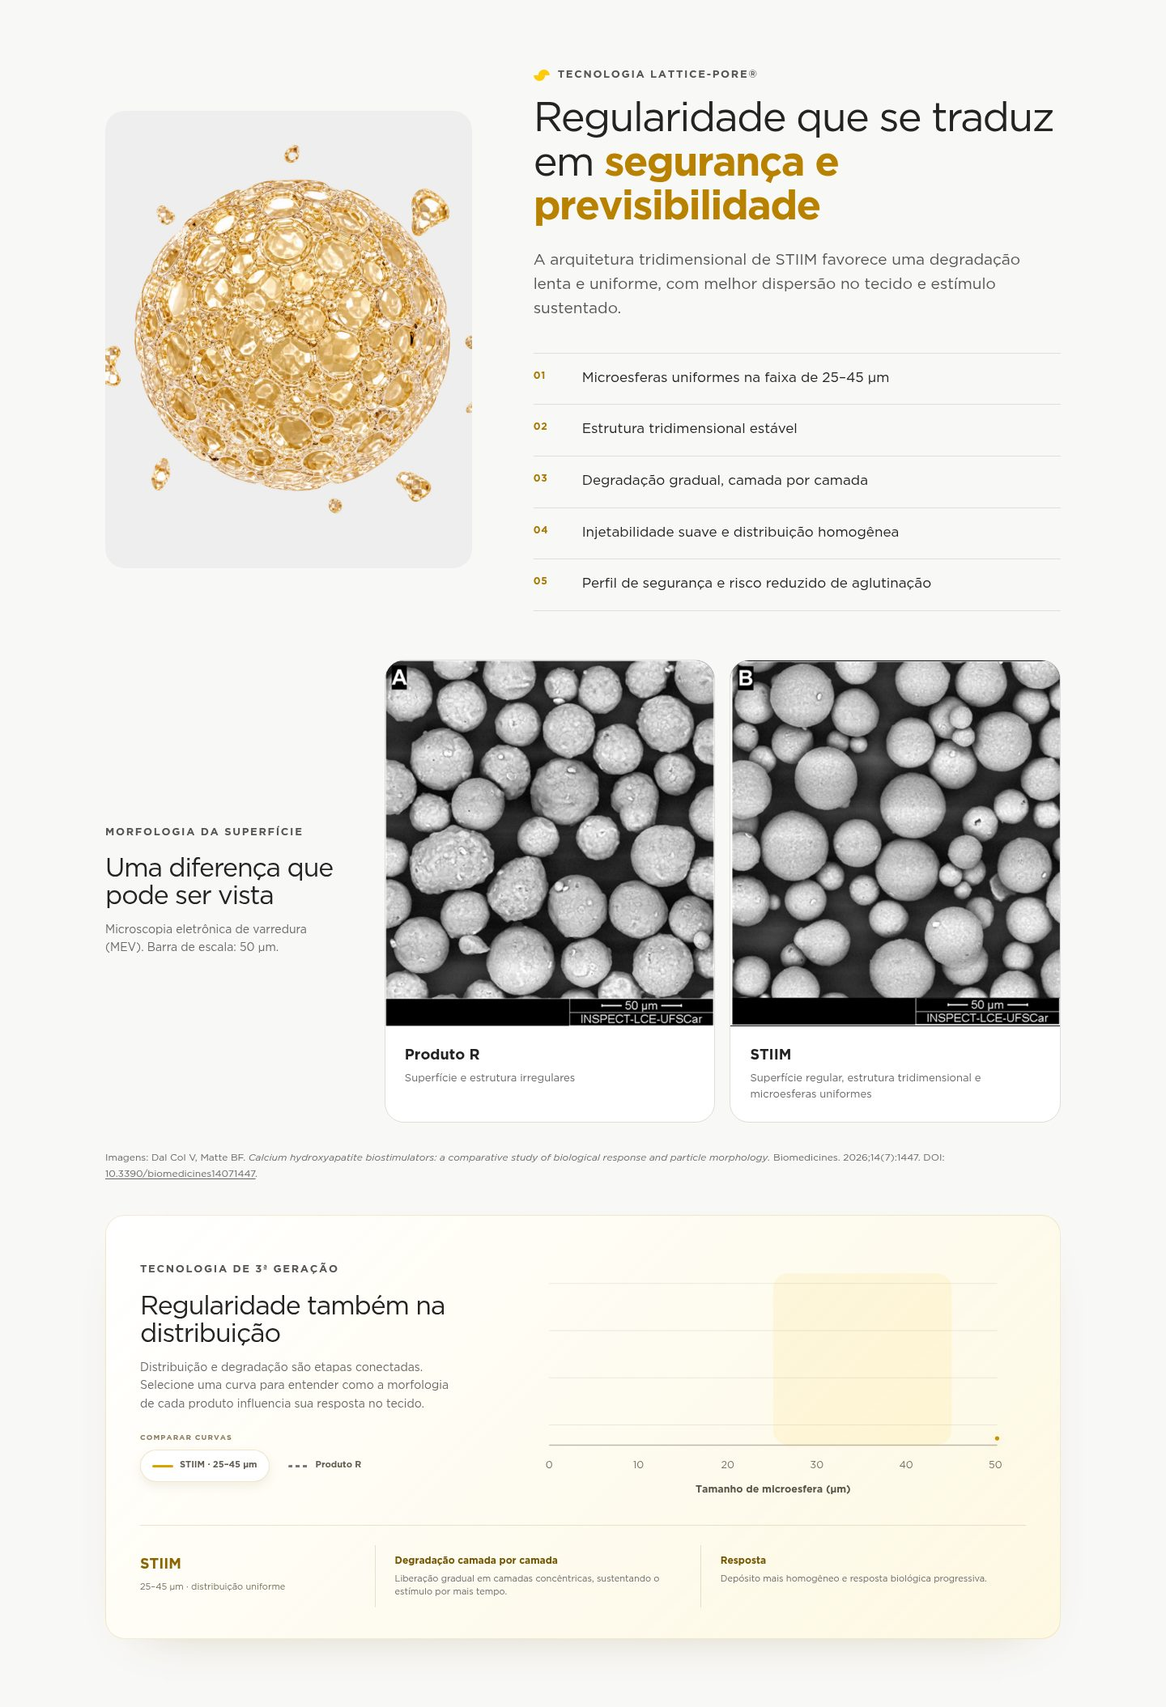
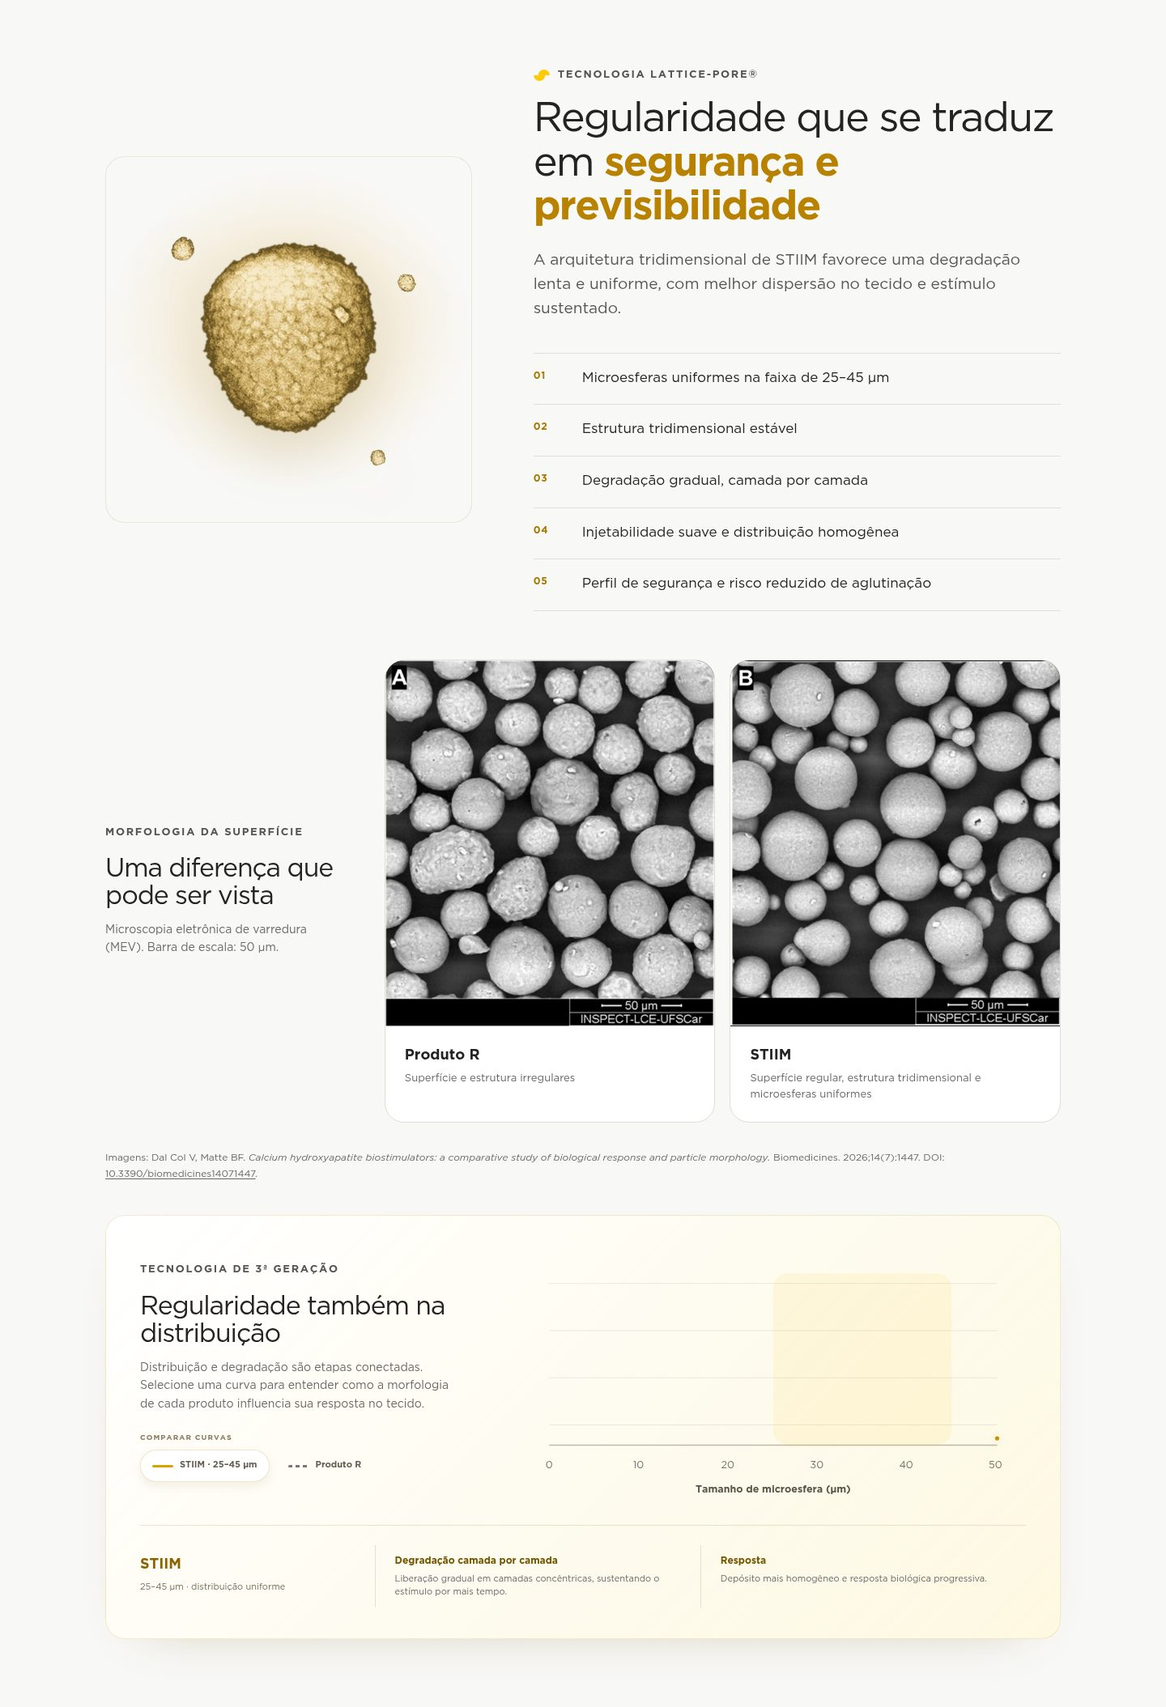
86ah19vv5: molecula Lattice-Pore virou a particula real do painel D, dourada e fosca
A molecula do PDF nao era um asset separado: e a particula real do painel D da
propria g004, recortada. Com isso o bloqueio caiu e a peca foi construida em cima
da micrografia, sem gerar nem redesenhar nada.

De onde saiu
- Particula principal: g004, painel D, esfera do canto superior esquerdo
  (silhueta 528x573), a mais inteira do painel.
- 3 microesferas satelite: painel B, da mesma figura. De proposito NAO usei lasca
  dos paineis A e C: aqueles dois sao o produto comparador, e B/D sao o mesmo
  material da particula principal. Misturar seria afirmar o que o estudo nao diz.

Recorte
Limiar sobre o painel (a tarja da escala e detectada e descartada antes),
componentes conexos, e escolha do componente que nao toca borda nenhuma e e o
mais circular perto do canto superior esquerdo. Mascara com fechamento/abertura
em disco, preenchimento de buracos, mediana e desfoque de 1,6px so na borda do
alfa. Conferido: alfa zero nas quatro bordas do recorte, entao a esfera nao foi
cortada. Fundo transparente, sem halo do fundo escuro do MEV.

Tratamento (sobre a foto, sem redesenhar)
Luminancia real mapeada por rampa champagne, do bronze #634F21 ao creme #F7EAC8,
coerente com --gold-field/--cream/--gold-ink. Tres pontos garantem o "sem aspecto
de vidro": a rampa termina antes do branco puro (sem branco nao ha reflexo
especular), o piso nao vai a preto (a particula continua lendo como volume) e nao
ha transparencia nenhuma. Contraste da textura preservado com ganho 1,12 em torno
[…]

Changed region(s): [[0.0938, 0.0925, 0.4062, 0.3082]]

diff --git a/styles.css b/styles.css
@@ -163,6 +163,12 @@ p{margin-bottom:20px}
 .technology-grid{display:grid;grid-template-columns:.82fr 1.18fr;gap:76px;align-items:center}
 .identity-card{margin:0;overflow:hidden;border-radius:var(--radius);background:#eee}
 .identity-card img{width:100%;aspect-ratio:4/5;object-fit:cover;object-position:center}
+/* 86ah19vv5: card da particula dourada. A imagem e recortada com fundo transparente, entao
+   o card deixa de ser uma caixa cinza e vira um campo champagne suave, no mesmo tom do
+   amarelo novo da secao de evidencias. contain em vez de cover para nao cortar as
+   microesferas satelites, e padding para a particula nao encostar na borda. */
+.identity-card--particula{display:grid;place-items:center;padding:3%;border:1px solid rgba(154,112,0,.13);background:radial-gradient(66% 58% at 50% 47%,#fbf4e4 0%,#f6efdf 42%,var(--surface) 76%)}
+.identity-card--particula img{aspect-ratio:1/1;object-fit:contain;filter:drop-shadow(0 26px 34px rgba(122,95,20,.16))}
 .technology-copy>p:not(.eyebrow){max-width:650px;color:#555;font-size:19px}
 .feature-list{margin:38px 0 0;padding:0;list-style:none;border-top:1px solid var(--line)}
 .feature-list li{display:grid;grid-template-columns:42px 1fr;gap:18px;padding:19px 0;border-bottom:1px solid var(--line);font-size:17px;line-height:1.45}
@@ -238,15 +244,16 @@ p{margin-bottom:20px}
 .mechanism-expansion{position:relative;display:block;margin-top:44px}
 .mechanism-visual{position:relative;grid-area:visual;min-height:500px;overflow:visible;isolation:isolate}
 .mechanism-field{position:absolute;inset:0;overflow:hidden}
-.mechanism-field::before{content:"";position:absolute;top:50%;left:40%;width:430px;height:430px;border-radius:50%;background:radial-gradient(circle at 67% 50%,rgba(255,202,8,.72),rgba(255,202,8,.34) 43%,rgba(255,227,111,.12) 62%,transparent 75%);filter:blur(15px);transform:translate(-50%,-50%)}
+.mechanism-field::before{content:"";position:absolute;top:50%;left:40%;width:430px;height:430px;border-radius:50%;background:radial-gradient(circle at 67% 50%,rgba(255,202,8,.46),rgba(255,202,8,.22) 43%,rgba(255,227,111,.08) 62%,transparent 75%);filter:blur(15px);transform:translate(-50%,-50%)}
 /* 86ah19vv5: "centralizar, esta muito grudado com a borda" - o painel e o texto saem da
    borda esquerda do bloco. */
 .mechanism-field::after{content:"";position:absolute;top:50%;left:3%;z-index:3;width:38%;height:450px;border:1px solid rgba(255,255,255,.7);border-radius:var(--radius);background:rgba(255,255,255,.5);box-shadow:inset 1px 1px rgba(255,255,255,.9),0 18px 48px rgba(103,77,0,.045);backdrop-filter:blur(18px) saturate(112%);-webkit-backdrop-filter:blur(18px) saturate(112%);transform:translateY(-50%);pointer-events:none}
 .mechanism-field i{position:absolute;top:50%;left:40%;border-radius:50%;transform:translate(-50%,-50%)}
 .mechanism-field i:nth-child(1){width:510px;height:510px;border:1px dashed rgba(168,120,0,.42)}
 .mechanism-field i:nth-child(2){width:450px;height:450px;background:repeating-conic-gradient(from -90deg,rgba(168,120,0,.52) 0 1.35deg,transparent 1.35deg 3.25deg);clip-path:inset(0 0 0 50%);-webkit-mask:radial-gradient(circle,transparent 0 58%,#000 58.5% 71%,transparent 71.5%);mask:radial-gradient(circle,transparent 0 58%,#000 58.5% 71%,transparent 71.5%)}
-.mechanism-field i:nth-child(3){width:390px;height:390px;background:radial-gradient(circle at 62% 50%,rgba(255,202,8,.45),rgba(255,202,8,.12) 58%,transparent 72%);clip-path:inset(0 0 0 48%);filter:blur(9px)}
-.mechanism-molecule{position:absolute;top:50%;left:40%;z-index:2;width:282px;height:282px;object-fit:contain;filter:drop-shadow(0 22px 34px rgba(115,85,0,.18)) brightness(1.01);transform:translate(-50%,-50%);animation:mechanism-molecule-float 6s ease-in-out infinite alternate}
+.mechanism-field i:nth-child(3){width:390px;height:390px;background:radial-gradient(circle at 62% 50%,rgba(255,202,8,.3),rgba(255,202,8,.08) 58%,transparent 72%);clip-path:inset(0 0 0 48%);filter:blur(9px)}
+/* 86ah19vv5: a particula dourada ja tem volume proprio; o brightness artificial sai. */
+.mechanism-molecule{position:absolute;top:50%;left:51%;z-index:4;width:286px;height:286px;object-fit:contain;filter:drop-shadow(0 22px 32px rgba(115,85,0,.16));transform:translate(-50%,-50%);animation:mechanism-molecule-float 6s ease-in-out infinite alternate}
 .mechanism-field>span{display:none}
 /* 86ah19vv5: "centralizar, esta muito grudado com a borda" - a coluna de cards sai de
    right:12% para uma margem folgada e ganha respiro vertical entre os tres. */
@@ -565,6 +572,8 @@ p{margin-bottom:20px}
   .particle-distribution{grid-template-columns:1fr;gap:20px}
   .mechanism-visual{min-height:460px}
   .mechanism-glass-tabs{right:3%;width:min(40%,300px)}
+  /* 86ah19vv5: com a coluna de cards mais a esquerda, a particula recua para nao ficar por baixo */
+  .mechanism-molecule{left:42%;width:236px;height:236px}
   .mechanism-glass-stage{min-height:105px;padding:22px 58px 18px 18px}
   .area-list .area-copy{grid-template-columns:1fr;gap:2px}
   .application-insights{grid-template-columns:1fr}
@@ -635,6 +644,7 @@ p{margin-bottom:20px}
   .mechanism-expansion{display:grid;grid-template-columns:1fr;grid-template-areas:"visual" "details";gap:30px;margin-top:32px}
   .mechanism-visual{min-height:430px}
   .mechanism-glass-tabs{right:22px;width:min(62%,330px)}
+  .mechanism-molecule{left:26%;width:208px;height:208px}
   .mechanism-details{position:relative;top:auto;left:auto;width:100%;min-height:320px;align-items:flex-start;transform:none}
   .mechanism-details h3{font-size:42px}
   .mechanism-gene{gap:8px}
@@ -741,7 +751,7 @@ p{margin-bottom:20px}
   .mechanism-field i:nth-child(1){width:220px;height:220px}
   .mechanism-field i:nth-child(2){width:186px;height:186px;clip-path:none}
   .mechanism-field i:nth-child(3){width:154px;height:154px;clip-path:none}
-  .mechanism-molecule{left:50%;width:159px;height:159px}
+  .mechanism-molecule{left:50%;width:186px;height:186px}
   .mechanism-field>span{display:none}
   .mechanism-glass-tabs{position:relative;top:auto;right:auto;bottom:auto;left:auto;width:100%;gap:8px;transform:none}
   .mechanism-glass-tabs::before{inset:-10px;border-radius:var(--radius)}

diff --git a/index.html b/index.html
@@ -12,7 +12,7 @@
 
   <link rel="preload" href="assets/fonts/GothamBook.woff2" as="font" type="font/woff2" crossorigin />
   <link rel="preload" href="assets/fonts/GOTHAM-BOLD.woff2" as="font" type="font/woff2" crossorigin />
-  <link rel="stylesheet" href="styles.css?v=20260909-62" />
+  <link rel="stylesheet" href="styles.css?v=20260909-63" />
 
   <script>window.__TRK__={brand:'ilikia',pixelId:'666277432116339',ga4Id:'',collect:'https://track-ilikia.koko.ag/collect'};</script>
   <noscript><img height="1" width="1" class="tracking-pixel" src="https://www.facebook.com/tr?id=666277432116339&amp;ev=PageView&amp;noscript=1" alt="" /></noscript>
@@ -153,8 +153,18 @@
 
   <section class="section technology" id="tecnologia">
     <div class="container technology-grid">
-      <figure class="identity-card reveal">
-        <img src="assets/img/stiim-particula-ilustracao-v2.webp" alt="Ilustração tridimensional da microesfera de STIIM com a estrutura Lattice-Pore" width="1254" height="1254" loading="lazy" />
+      <!-- 86ah19vv5: a esfera de vidro sai e entra a PARTICULA REAL tratada. A imagem vem
+           da micrografia do proprio projeto: painel D da Figura 4 de Biomedicines
+           2026;14(7):1447, a particula inteira do canto superior esquerdo, recortada com
+           mascara e fundo transparente. As microesferas soltas em volta sao do painel B, que
+           e o MESMO material do painel D - de proposito nao usei lascas dos paineis A e C,
+           que sao o produto comparador.
+           Tratamento: colorizacao dourada fosca sobre a foto, sem redesenhar. A rampa para
+           em 247,234,200, entao nao existe branco puro, nao existe reflexo especular e nao
+           volta a cara de vidro. A textura de placas continua com o contraste da micrografia.
+           As secoes cientificas nao mudam: a g004 segue em preto e branco. -->
+      <figure class="identity-card identity-card--particula reveal">
+        <img src="assets/img/lattice-pore-particula-dourada-1600.webp" alt="Partícula STiiM com acabamento dourado, representação a partir de micrografia" width="1600" height="1600" loading="lazy" />
       </figure>
       <div class="technology-copy reveal">
         <p class="eyebrow"><span class="brand-dot"></span> Tecnologia Lattice-Pore®</p>
@@ -259,7 +269,7 @@
     </div>
     <div class="container mechanism-expansion reveal" data-mechanism-expansion>
       <div class="mechanism-visual">
-        <div class="mechanism-field" aria-hidden="true"><i></i><i></i><i></i><img class="mechanism-molecule" src="assets/img/stiim-particula-ilustracao-v1.webp" alt="" width="1254" height="1254" loading="lazy" /><span>Ação<br />progressiva</span></div>
+        <div class="mechanism-field" aria-hidden="true"><i></i><i></i><i></i><img class="mechanism-molecule" src="assets/img/lattice-pore-particula-dourada-800.webp" alt="Partícula STiiM com acabamento dourado, representação a partir de micrografia" width="800" height="800" loading="lazy" /><span>Ação<br />progressiva</span></div>
         <div class="mechanism-glass-tabs" role="tablist" aria-label="Níveis do mecanismo de ação">
           <button class="mechanism-glass-stage" type="button" role="tab" id="mechanism-tab-1" aria-controls="mechanism-panel-1" aria-selected="true" tabindex="0" data-mechanism-index="0"><b>01</b><span>Efeito imediato<small>Até 4 semanas</small></span></button>
           <button class="mechanism-glass-stage" type="button" role="tab" id="mechanism-tab-2" aria-controls="mechanism-panel-2" aria-selected="false" tabindex="-1" data-mechanism-index="1"><b>02</b><span>Remodelamento<small>Médio e longo prazo</small></span></button>

diff --git a/docs/RELATORIO-AJUSTES-FINAIS.md b/docs/RELATORIO-AJUSTES-FINAIS.md
@@ -641,3 +641,130 @@ segunda ocorrência e para o bloco de resposta contínua.
 - **Push só na branch de trabalho** `ajustes-stiim-86ah19vv5`. `main` não foi tocada.
 - **Nada foi descartado.** Os assets antigos, inclusive `aplicacao-rosto-frontal.webp`, que
   saiu da página, continuam no repositório.
+
+---
+
+# Adendo 2 · a molécula era o painel D (09/09/2026, à tarde)
+
+A pista que faltava veio da Gabs: **a molécula do PDF não é um asset separado, é a partícula
+real do painel D da própria `g004`, recortada.** Confirmei olhando a miniatura ao lado do
+painel: a superfície de placas bate. Com isso o bloqueio 1 caiu, e a peça foi construída em
+cima da micrografia, sem gerar nem redesenhar nada.
+
+## De onde saiu cada pedaço
+
+| Peça | Origem | Detalhe |
+|---|---|---|
+| Partícula principal | `~/stiim-fotos/biomedicines-14-01447-g004.png`, **painel D**, esfera do canto superior esquerdo | Silhueta de 528 × 573 px, a mais inteira do painel, com a superfície de placas visível |
+| 3 microesferas satélite | **painel B** da mesma figura | Microesferas completas, sem tocar a borda do painel |
+
+**Por que os satélites vieram do painel B e não do A ou do C.** Painéis A e C são a coluna da
+esquerda, que é o **produto comparador**; B e D são a mesma coluna da direita, o mesmo
+material da partícula principal. Pôr lasca do A em volta de uma partícula do D misturaria os
+dois materiais numa imagem só, e a página inteira foi construída para não fazer esse tipo de
+afirmação. Do B saem microesferas inteiras do mesmo material, que é o que a composição pede.
+
+## Como o recorte foi feito
+
+Segmentação por limiar sobre o painel (a tarja preta da escala é detectada e descartada
+antes), rotulação de componentes conexos, e seleção do componente que não toca nenhuma borda
+e é o mais circular perto do canto superior esquerdo. A máscara passa por fechamento e
+abertura morfológicos com elemento em disco, preenchimento de buracos, filtro de mediana e um
+desfoque de 1,6 px só na borda do alfa. Conferi que **o alfa é zero nas quatro bordas do
+recorte**, ou seja, a esfera não foi cortada em nenhum lado. Fundo transparente de verdade,
+sem halo do fundo escuro do MEV.
+
+## O tratamento
+
+Colorização em cima da foto, **sem redesenhar**: a luminância real da micrografia é mapeada
+por uma rampa champagne, do bronze escuro `#634F21` ao creme `#F7EAC8`, coerente com os
+tokens novos da LP (`--gold-field #f6e6bd`, `--cream #faf3e2`, `--gold-ink #5a4708`).
+
+Três decisões que garantem o "sem aspecto de vidro" que o cliente pediu:
+
+- **A rampa termina em `#F7EAC8`, não em branco.** Sem branco puro não há como aparecer
+  reflexo especular, que é o que dá leitura de vidro ou plástico polido.
+- **O piso não vai a preto** (`#634F21`), então a partícula continua lendo como volume, não
+  como silhueta recortada.
+- **Nenhuma transparência**: a alfa é binária suavizada só na borda; o interior é opaco.
+
+O contraste da textura foi preservado com um ganho suave de 1,12 em torno do meio-tom, depois
+de normalizar entre os percentis 4 e 98 da própria partícula. As placas da superfície
+continuam com o relevo da micrografia.
+
+## Arquivos
+
+| Arquivo | Tamanho |
+|---|---|
+| `assets/img/lattice-pore-particula-dourada-1600.webp` | 1600 × 1600, 79 KB |
+| `assets/img/lattice-pore-particula-dourada-1600.png` | 1600 × 1600, 922 KB |
+| `assets/img/lattice-pore-particula-dourada-800.webp` | 800 × 800, 32 KB |
+| `assets/img/lattice-pore-particula-dourada-800.png` | 800 × 800, 300 KB |
+
+Todos com fundo transparente. A página carrega os WebP; os PNG ficam versionados como fonte
+para quem precisar do arquivo sem perda. A composição é quadrada e os satélites ficam dentro
+dos 78% centrais, então nenhum corte 4:5 os come.
+
+## Onde foi aplicada
+
+| Lugar | Antes | Agora |
+|---|---|---|
+| Bloco Tecnologia Lattice-Pore | `stiim-particula-ilustracao-v2.webp` (esfera de vidro dourada) | `lattice-pore-particula-dourada-1600.webp` |
+| Bloco de resposta contínua (mecanismo de ação) | `stiim-particula-ilustracao-v1.webp` | `lattice-pore-particula-dourada-800.webp` |
+
+Alt nas duas: **"Partícula STiiM com acabamento dourado, representação a partir de
+micrografia"**. Não afirma concentração, nem produto além do que a fonte sustenta.
+
+Os dois assets antigos continuam no repositório, sem uso na página. Não apaguei nenhum.
+
+### Ajustes de tamanho, alinhamento e integração
+
+- **Bloco Tecnologia:** o card virou quadrado com `object-fit: contain`, para os satélites não
+  serem cortados, e ganhou um campo champagne radial no lugar do cinza chapado, no mesmo tom
+  do amarelo novo da seção de evidências, com borda de 1 px e sombra suave. Antes o card era
+  `4/5` com `cover`.
+- **Bloco de resposta contínua:** a partícula saiu de `left: 40%` para `left: 51%`, porque
+  metade dela ficava atrás do painel de vidro. O halo amarelo do campo foi reduzido de `.72`
+  para `.46` de opacidade, e o brilho interno de `.45` para `.30`: o amarelo forte apagava a
+  textura de placas. O `brightness(1.01)` artificial saiu, a partícula já tem volume próprio.
+- **Breakpoints:** em `≤1020px` a partícula recua para `left: 42%` a 236 px e em `≤780px` para
+  `left: 26%` a 208 px, porque a coluna de cards encosta mais à esquerda e ela ficaria por
+  baixo. Em `≤520px` o campo já é centralizado e a partícula vai a 186 px (era 159 px).
+  Conferido em 1440, 1000, 768 e 390.
+
+## O que NÃO mudou
+
+**As seções científicas continuam exatamente iguais.** A `g004` segue em preto e branco nos
+dois lugares onde é citada como micrografia: o comparativo Produto R × STIIM (painéis A e B) e
+o bloco de morfologia por ampliação (painéis B e D), com letra do painel, barra de escala,
+etiqueta do laboratório e a referência com DOI. Nada foi colorizado ali. A colorização
+dourada existe só na peça decorativa, e o alt dela diz que é representação a partir de
+micrografia.
+
+## Validação
+
+- Console e rede limpos em 1440, 768 e 390: zero erro, zero requisição falhada, zero 404.
+- Grep no fonte e no DOM renderizado: `corporal`, `corporais`, `corpora`, `toxina`, `botul`,
+  `Produto A` e `semelhante a areia` seguem em **zero**.
+- **Lighthouse não caiu:** Performance **91 → 92**, Acessibilidade **100**, Boas práticas
+  **100**, SEO **100**. LCP 3,3 s, TBT 60 ms, CLS 0. Peso total 472 → 474 KB (a peça nova pesa
+  79 KB e substitui uma de 328 KB, mas entra também no bloco do mecanismo, que antes usava
+  outra de 321 KB — no líquido a página ficou mais leve nesses dois blocos).
+- Antes e depois em `docs/shots/molecula/`:
+  `tecnologia-antes-depois-1440.jpg`, `resposta-continua-antes-depois-1440.jpg` e
+  `antes-depois-390.jpg`. Shots de seção e de página inteira atualizados em
+  `docs/shots/ajustes-finais/`.
+
+## Segurança (desta rodada)
+
+- **Nenhum segredo novo.** A rodada gerou imagem a partir de um arquivo que já estava na
+  caixa e mexeu em HTML e CSS. Nenhuma credencial entrou no código; o `.env` não foi criado
+  nem lido. O token do RD Station segue igual e não foi tocado.
+- **Endpoints intocados.** Formulário, endpoint do RD Station e scripts de tracking não foram
+  alterados. **Nenhum lead novo foi enviado.**
+- **Fronteira de rede respeitada.** Trabalho local em `127.0.0.1:8137`. Nada tentou alcançar
+  `10.60.x`.
+- **Zero escrita no ClickUp e no Drive.**
+- **Push só na branch de trabalho** `ajustes-stiim-86ah19vv5`. `main` não foi tocada.
+- **Nada foi descartado:** `stiim-particula-ilustracao-v1.webp` e `-v2.webp` continuam
+  versionados, só saíram da página.

diff --git a/docs/COMENTARIO-CLICKUP.md b/docs/COMENTARIO-CLICKUP.md
@@ -61,3 +61,23 @@ Tem várias parecidas, e mandei um print com todas elas lado a lado pra você ve
 Consegue perguntar pra Li de onde ela tirou aquela imagem, ou pedir o arquivo original? Com ele em mãos eu faço o acabamento dourado fosco e aplico nos três lugares de uma vez.
 
 Console e rede continuam limpos, e o Lighthouse segue em 91 de performance e 100 de acessibilidade. Nesta rodada não enviei lead nenhum.
+
+---
+
+# Complemento 2 (molécula resolvida)
+
+> Revisar antes de postar. NÃO postado.
+
+---
+
+Oi Mari, a molécula saiu. A chave foi entender que ela não é um desenho separado: é a partícula real do estudo, do painel D daquela mesma figura que a gente já usa, recortada e tratada.
+
+Foi isso que eu fiz. Recortei a partícula inteira do canto superior esquerdo do painel D, com máscara limpa e fundo transparente, sem cortar a borda dela. Em volta coloquei três microesferas soltas do painel B, que é o mesmo material do painel D. De propósito não usei nada dos painéis A e C, porque esses dois são o produto comparador e misturar os dois numa imagem só seria dizer uma coisa que o estudo não diz.
+
+O acabamento é colorização em cima da foto, nada redesenhado. A rampa vai do bronze escuro ao creme, no mesmo tom do amarelo novo da página, e ela para antes do branco puro de propósito: sem branco puro não tem como aparecer reflexo, que era justamente o que dava a cara de vidro. Também não tem transparência nenhuma. A textura de placas continua com o relevo da micrografia, então ela lê como partícula de verdade, com volume.
+
+Apliquei nos dois lugares que você marcou: o bloco da tecnologia Lattice-Pore e o bloco de resposta contínua. Ajustei tamanho e alinhamento nos dois, e conferi em desktop, tablet e celular. No bloco de resposta contínua também baixei o amarelo do fundo, que estava forte e apagava a textura.
+
+Uma coisa importante: as seções científicas não mudaram nada. A figura do artigo continua em preto e branco nos dois lugares onde ela é citada, com a letra do painel, a barra de escala e a referência. A colorização dourada existe só na peça decorativa, e o texto alternativo dela diz que é representação a partir de micrografia, sem afirmar concentração nem produto.
+
+Mandei os prints de antes e depois. O Lighthouse não caiu, continua em 100 de acessibilidade e subiu de 91 para 92 em performance. Console e rede limpos. Nesta rodada não enviei lead nenhum.
